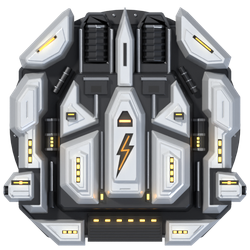
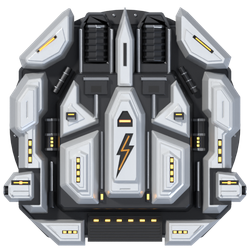
Trovao (155 mm): freio de boca claro e em ponta (render final em andamento)
Claude-Session: https://claude.ai/code/session_01WinUi4wzHz3zWHUSicAx1P

diff --git a/tools/blender/parts/bs_naval_155.py b/tools/blender/parts/bs_naval_155.py
@@ -6,7 +6,8 @@ rebaixo escuro), cunha frontal larga (garras laterais + bercos em cunha + proa c
 orelhas de telemetro: casulos blindados que saem dos flancos e giram (animacao da torre), tambores de
 municao nos vaos, baia de exaustao traseira e faixa de carregadores com 4 escotilhas emolduradas no teto.
 Dois canos pesados: bolsa de culatra escura, luva de recuo com aros, tubo em dois estagios (tubo A +
-cano fino) com extrator de gases e freio de boca de duas camaras escuras com defletores claros, que
+cano fino) com extrator de gases e freio de boca em dois estagios na linguagem do 76 mm: camaras claras
+facetadas apontando para a frente (a da frente em ponta de flecha) com janelas transversais escuras, que
 brilham de calor (o calor escorre um pouco para o fim do cano fino).
 """
 
@@ -265,12 +266,16 @@ def head(M, T="head", phase=0.0):
         B.cyl(f"hoistb{sx}", sx * 1.14, -1.16, 0.44, 0.055, 0.26, KM, axis="Y", verts=10, tags=tags)
 
 
-def _chamber(name, ya, yb, z, BR, hot, nose):
-    """Camara do freio de boca: corpo escuro (brilha de calor) com defletores claros transversais."""
-    tip = 0.11 if nose else 0.05
-    poly = [(-0.23, ya), (0.23, ya), (0.265, ya + 0.05), (0.265, yb - tip), (0.17 if nose else 0.23, yb),
-            (-0.17 if nose else -0.23, yb), (-0.265, yb - tip), (-0.265, ya + 0.05)]
-    return B.plate(name, poly, z - 0.145, z + 0.145, BR, slope=0.035, tags=hot)
+def _chamber(name, ya, yb, z, A, K, hot, tip, fw, ports, extra=()):
+    """Camara do freio de boca (como o freio do 76 mm): corpo claro facetado que aponta para a frente
+    (chanfro frontal 'tip' ate a meia largura 'fw'), brilha de calor, com janelas transversais escuras
+    recortadas no topo (o nucleo escuro b_brake_core aparece no fundo de cada janela)."""
+    poly = [(-0.23, ya), (0.23, ya), (0.265, ya + 0.05), (0.265, yb - tip), (fw, yb), (-fw, yb), (-0.265, yb - tip),
+            (-0.265, ya + 0.05)]
+    ch = B.plate(name, poly, z - 0.145, z + 0.145, A, slope=0.035, tags=hot)
+    cuts = [B.box(f"{name}_p{i}", 0, y, 0.60, 0.045, z + 0.03, z + 0.3, K, bevel=0.0) for i, y in enumerate(ports)]
+    B.cut(ch, cuts + list(extra))
+    return ch
 
 
 def barrel(M, L=3.0, T="barrel", phase=0.0):
@@ -278,7 +283,6 @@ def barrel(M, L=3.0, T="barrel", phase=0.0):
     tags = (T,)
     hot = (T, "hot")  # partes que brilham de calor depois do tiro
     A, AM, K, KM, S = M["armor"], M["armor_mid"], M["core"], M["core_mid"], M["steel"]
-    BR = B.mat_metal("brake_dark", (0.04, 0.041, 0.046), rough=0.4, metal=0.85)   # corpo escuro do freio
     z = 0.6
     # bolsa de culatra (lona) escura com pregas
     B.cyl("b_bag", 0, 0.26, z, 0.22, 0.52, KM, axis="Y", verts=8, bevel=0.012, tags=tags)
@@ -324,24 +328,20 @@ def barrel(M, L=3.0, T="barrel", phase=0.0):
     B.cyl("b_fumecone0", 0, ye - 0.19, z, 0.165, 0.08, A, axis="Y", verts=8, bevel=0.0, tags=tags, r2=0.225)
     B.cyl("b_fumecone1", 0, ye + 0.19, z, 0.225, 0.08, A, axis="Y", verts=8, bevel=0.0, tags=tags, r2=0.16)
     B.cyl("b_collar1", 0, L - 0.77, z, 0.178, 0.05, AM, axis="Y", verts=8, bevel=0.008, tags=hot)
-    # freio de boca de duas camaras escuras (multi-defletor) com defletores claros
+    # freio de boca em dois estagios (linguagem do 76 mm): camaras claras apontando para a frente, com
+    # janelas transversais escuras (ritmo 0.09, barras claras de 0.045)
     B.cyl("b_brakering", 0, L - 0.71, z, 0.20, 0.04, S, axis="Y", verts=8, bevel=0.006, tags=hot)
     ra, rb = L - 0.69, L - 0.41
     fa, fb = L - 0.345, L
-    _chamber("b_brake1", ra, rb, z, BR, hot, False)
+    _chamber("b_brake1", ra, rb, z, A, K, hot, 0.07, 0.20, (ra + 0.09, ra + 0.18))
     B.cyl("b_neck", 0, (rb + fa) / 2, z, 0.17, fa - rb + 0.02, S, axis="Y", verts=8, bevel=0.006, tags=hot)
-    f1 = _chamber("b_brake2", fa, fb, z, BR, hot, True)
-    # defletores (placas claras transversais) - camara traseira: 3; frontal: 2 + nariz
-    for i, (y, w) in enumerate(((ra + 0.025, 0.47), ((ra + rb) / 2, 0.55), (rb - 0.025, 0.47),
-                                (fa + 0.025, 0.47), (fa + 0.155, 0.55))):
-        B.rbox(f"b_baffle{i}", 0, y, w, 0.05, z - 0.155, z + 0.165, AM, chamfer=0.012, slope=0.012, bevel=0.006,
-               tags=tags)
-    nose = [(-0.265, fb - 0.10), (0.265, fb - 0.10), (0.265, fb - 0.075), (0.17, fb), (-0.17, fb),
-            (-0.265, fb - 0.075)]
-    nc = B.plate("b_nose", nose, z - 0.155, z + 0.165, AM, slope=0.02, bevel=0.006, tags=tags)
-    B.cut(nc, [B.box("b_bore_c", 0, fb, 0.12, 0.10, z - 0.07, z + 0.3, K, bevel=0.0)])
-    B.cut(f1, [B.box("b_bore_c2", 0, fb, 0.12, 0.10, z - 0.07, z + 0.3, K, bevel=0.0)])
-    B.box("b_brake_core", 0, (ra + fb) / 2, 0.40, fb - ra - 0.04, z - 0.12, z + 0.02, K, bevel=0.0, tags=tags)
+    # camara frontal em ponta de flecha (como (+-0.12, yb+0.21) do 76 mm), com a boca recortada na ponta
+    _chamber("b_brake2", fa, fb, z, A, K, hot, 0.13, 0.12, (fa + 0.08, fa + 0.17),
+             extra=[B.box("b_bore_c2", 0, fb, 0.12, 0.10, z - 0.07, z + 0.3, K, bevel=0.0)])
+    # nucleo escuro: topo logo acima do fundo das janelas (aparece nelas); termina antes da ponta de flecha
+    # para nao alargar a silhueta do nariz
+    B.box("b_brake_core", 0, (ra + fb - 0.08) / 2, 0.40, fb - ra - 0.12, z - 0.12, z + 0.035, K, bevel=0.0,
+          tags=tags)
 
 
 def roof(M, T="roof"):
